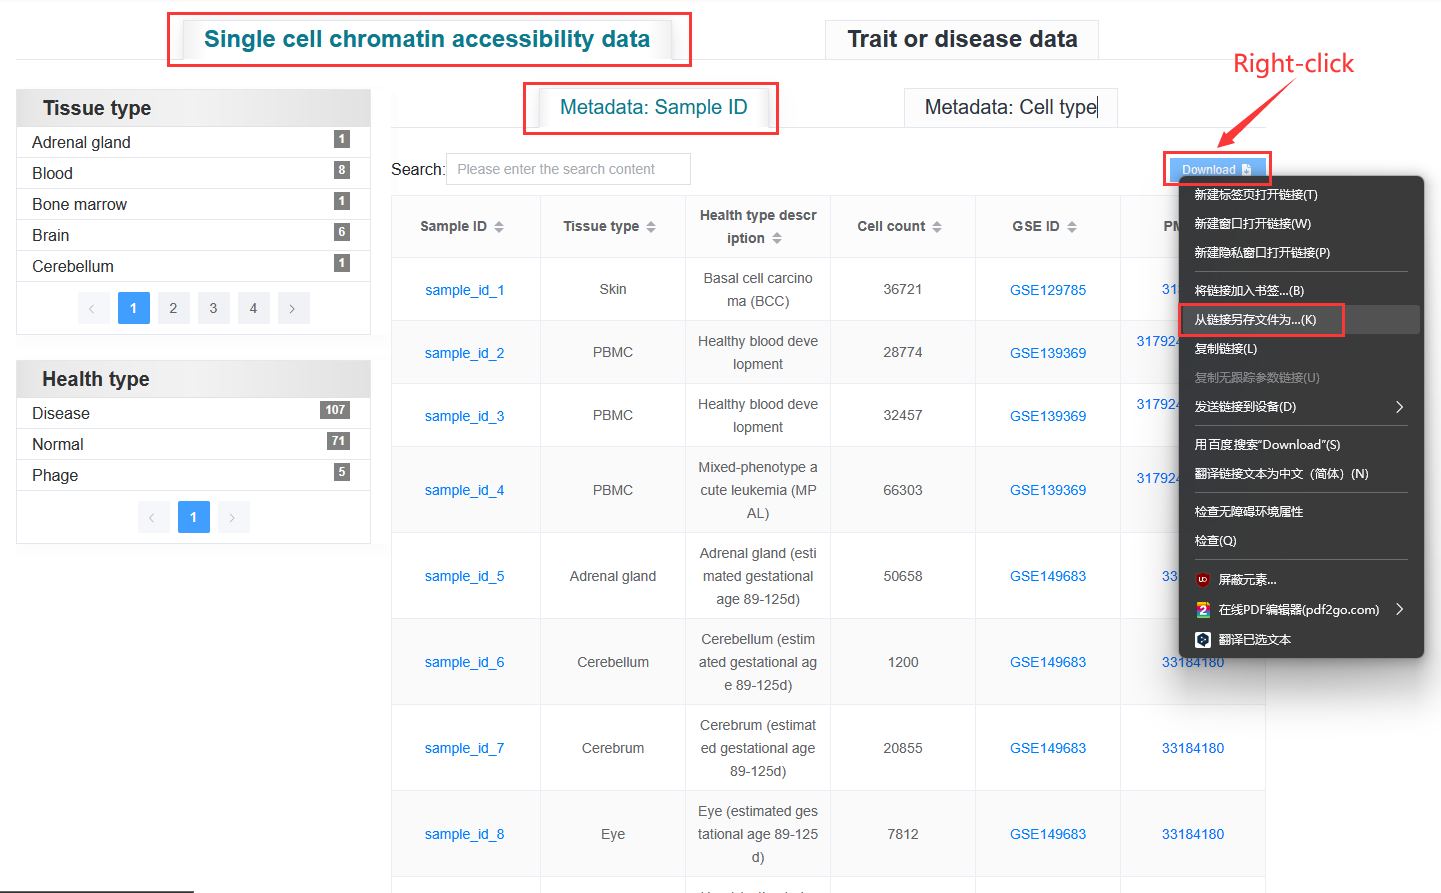
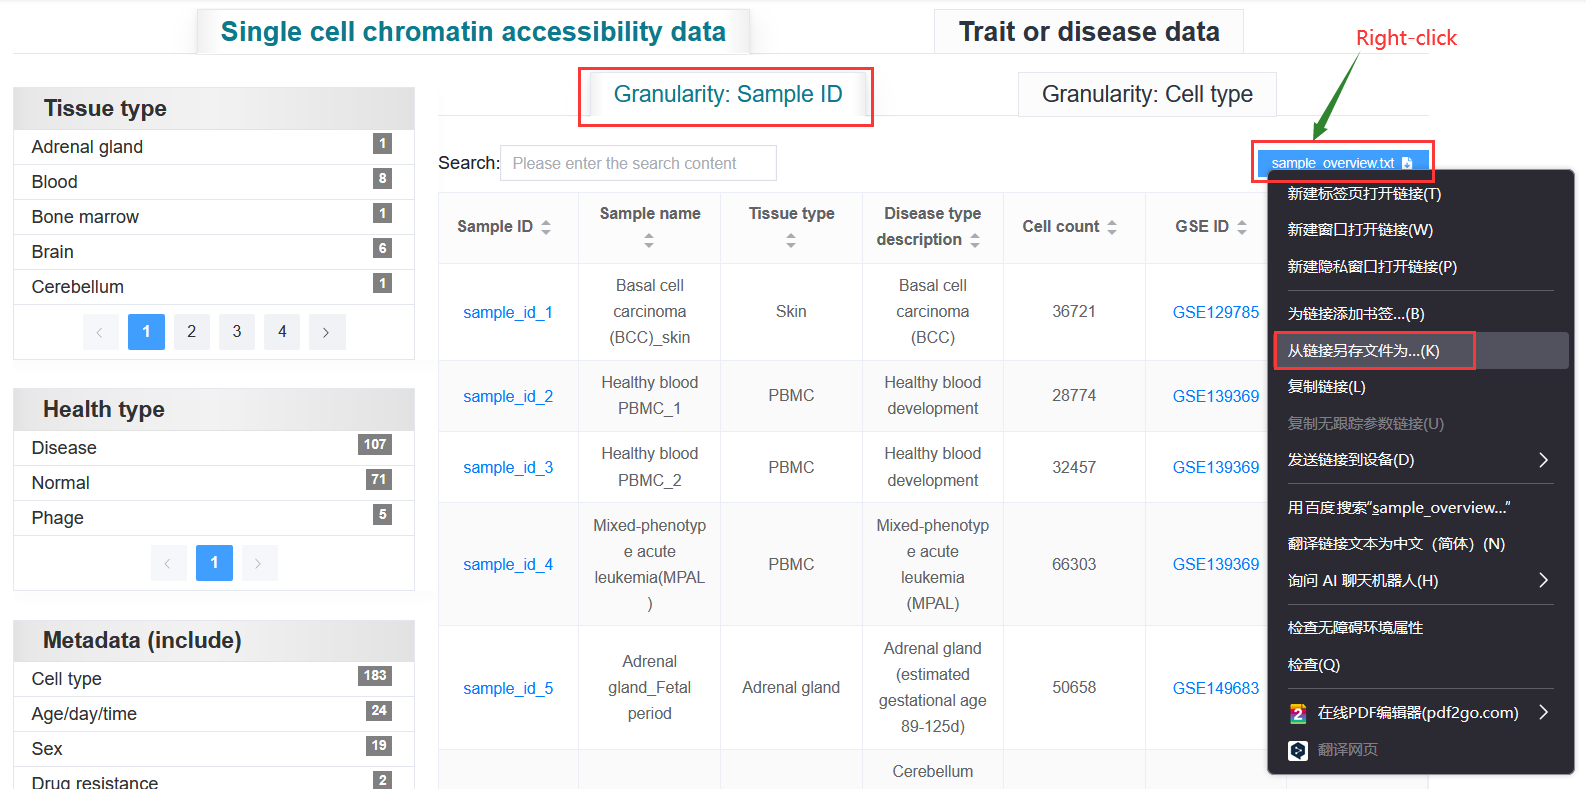
feat: Improve data browse information

diff --git a/docs/source/usage/dataBrowse.rst b/docs/source/usage/dataBrowse.rst
@@ -16,10 +16,10 @@ The displayed information content supports interactive tables, alphabetical sort
 
 Single cell datasets are further divided into **sample** or **cell type** based access data. Click on the ``Sample ID`` to enter the sample detail page.
 
-2.2.1.1 Metadata: Sample ID
+2.2.1.1 Granularity: Sample ID
 ******************************
 
-We provide filtering based on "Tissue type" and "Health type" using samples as the metadata.
+We provide filtering based on "Tissue type", "Health type" and "Metadata" using samples as the metadata.
 
 .. image:: ../img/dataBrowse/sc_sample_id.png
 
@@ -29,7 +29,7 @@ We provide filtering based on "Tissue type" and "Health type" using samples as t
 
 .. image:: ../img/dataBrowse/txt_download.png
 
-2.2.1.2 Metadata: Cell type
+2.2.1.2 Granularity: Cell type
 ******************************
 
 We provide filtering based on "Tissue type" and "cell type" using cell type as the metadata.
@@ -39,9 +39,21 @@ We provide filtering based on "Tissue type" and "cell type" using cell type as t
 2.2.2 Trait or disease data
 ^^^^^^^^^^^^^^^^^^^^^^^^^^^^^^^^^^^^^^^^^^^^^^^^
 
-Similarly, fine mapping result data can be filtered using "Type", "Category (ICD-10)", "Subcategory (ICD-10)",and "Source cohort". Click on the ``Trait ID`` to enter the trait or disease detail page.
+Trait or disease data is further divided into **FINEMAP** or **SuSiE** based access data. Click on the ``Trait ID`` to enter the trait or disease detail page.
 
-.. image:: ../img/dataBrowse/fine_mapping.png
+2.2.2.1 FINEMAP
+******************
+
+The FINEMAP fine-mapping result data can be filtered by "Type", "Category (ICD-10)", "Subcategory (ICD-10)", and "Source cohort".
+
+.. image:: ../img/dataBrowse/fine_mapping_finemap.png
+
+2.2.2.2 SuSiE
+******************
+
+The SuSiE fine-mapping result data can be filtered by "Type", "Category (ICD-10)", and "Subcategory (ICD-10)".
+
+.. image:: ../img/dataBrowse/fine_mapping_susie.png
 
 .. note::
 
